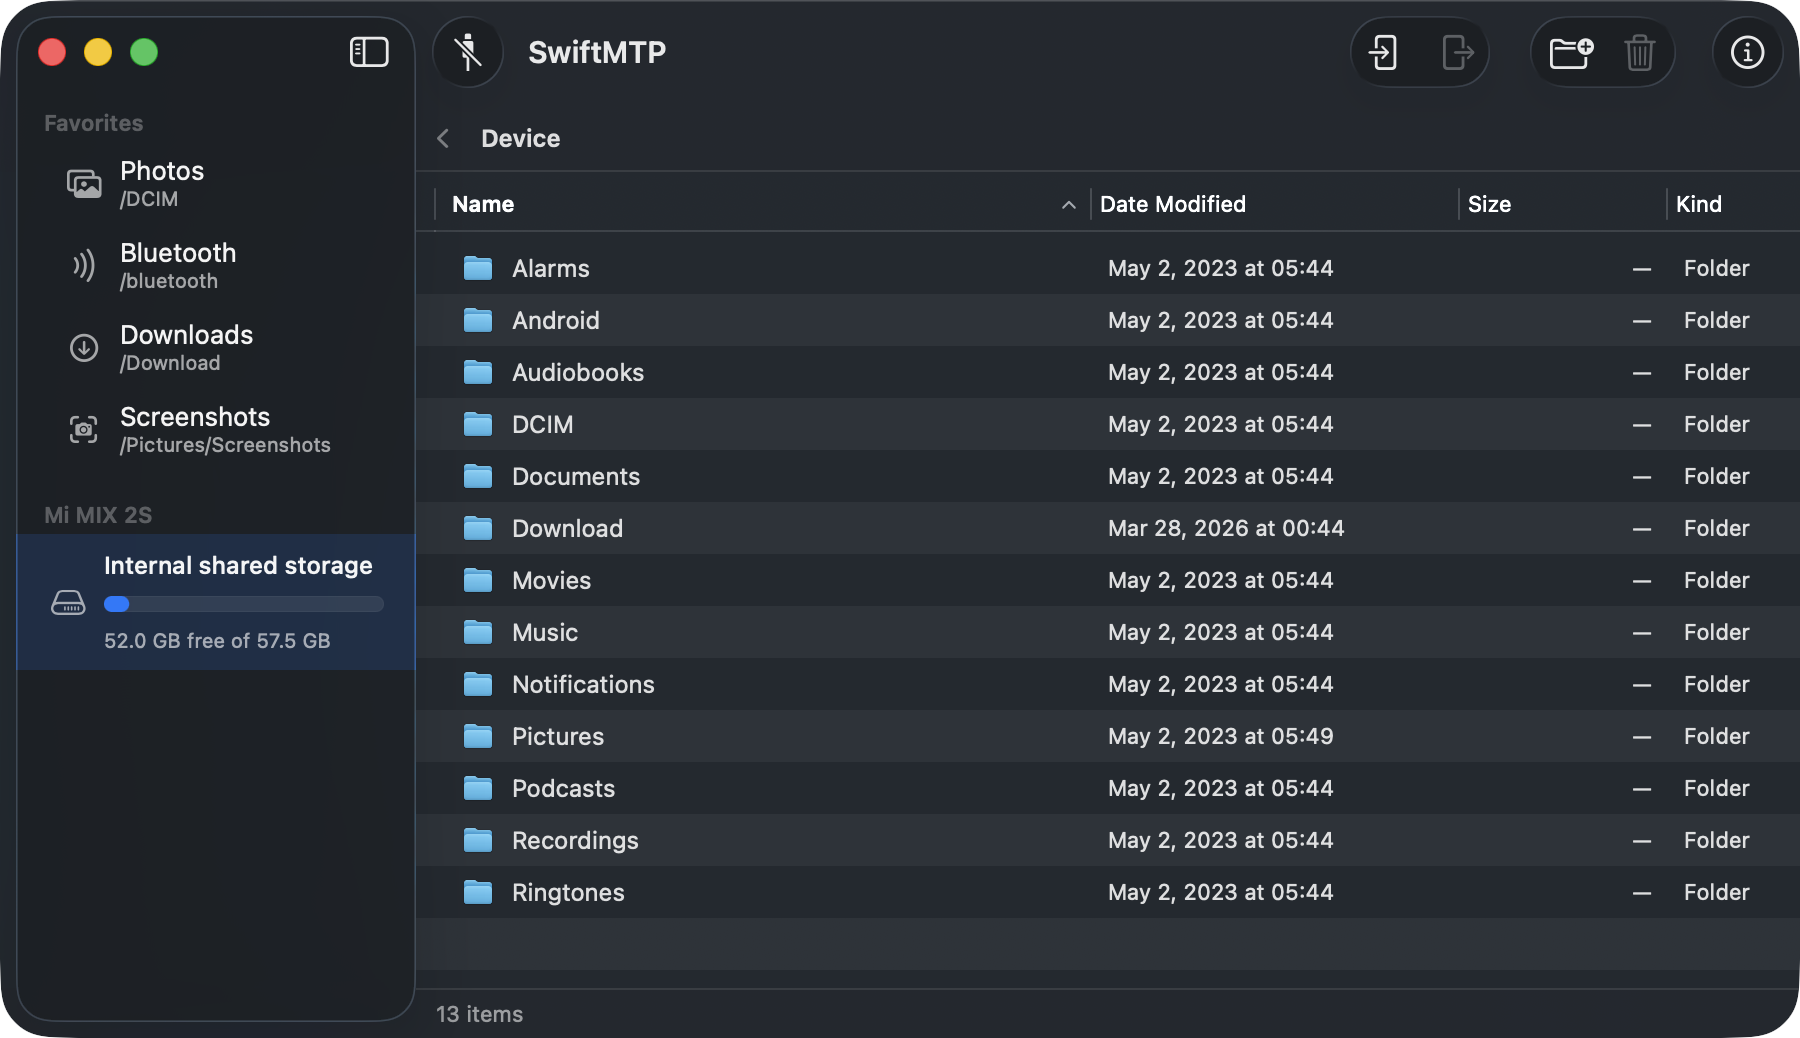
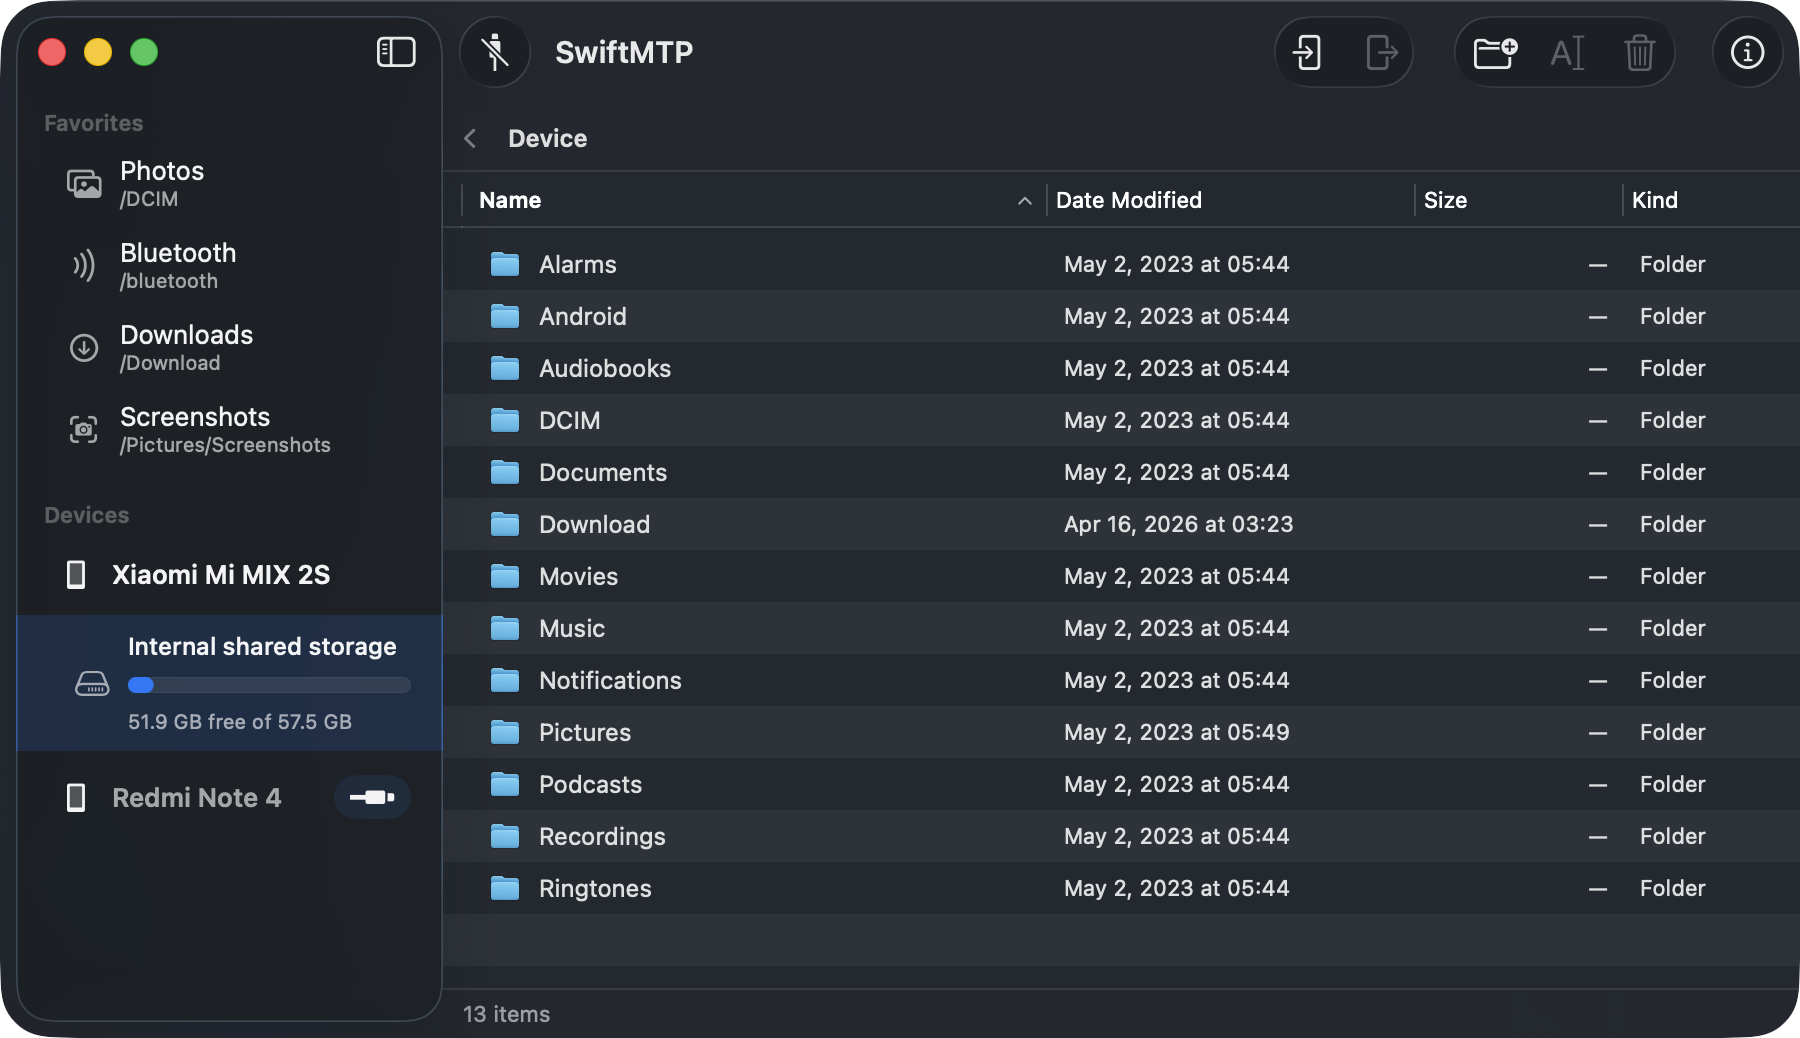
Update v1.1

diff --git a/index.html b/index.html
@@ -188,7 +188,8 @@
             <tr>
               <th></th>
               <th class="col-highlight">SwiftMTP</th>
-              <th>OpenMTP</th>
+              <th>Open Source A</th>
+              <th>Open Source B</th>
               <th>App Store A</th>
               <th>App Store B</th>
               <th>App Store C</th>
@@ -199,6 +200,7 @@
               <td class="row-label">Architecture</td>
               <td class="col-highlight"><span class="badge-good">Universal</span></td>
               <td><span class="badge-warn">Separate pkg</span></td>
+              <td><span class="badge-bad">Apple Silicon</span></td>
               <td><span class="badge-good">Universal</span></td>
               <td><span class="badge-bad">Apple Silicon</span></td>
               <td><span class="badge-good">Universal</span></td>
@@ -207,6 +209,7 @@
               <td class="row-label">macOS Support</td>
               <td class="col-highlight">12.0+</td>
               <td>11.0+</td>
+              <td>13.0+</td>
               <td>10.15+</td>
               <td>12.0+</td>
               <td><span class="badge-bad">14.6+</span></td>
@@ -215,6 +218,7 @@
               <td class="row-label">App Size</td>
               <td class="col-highlight"><span class="badge-good">&lt; 20 MB</span></td>
               <td><span class="badge-bad">~360 MB</span></td>
+              <td><span class="badge-good">~20 MB</span></td>
               <td><span class="badge-good">&lt; 20 MB</span></td>
               <td><span class="badge-good">&lt; 20 MB</span></td>
               <td><span class="badge-good">&lt; 20 MB</span></td>
@@ -223,6 +227,7 @@
               <td class="row-label">Transfer Speed</td>
               <td class="col-highlight"><span class="badge-good">Fast</span></td>
               <td><span class="badge-good">Fast</span></td>
+              <td>Average</td>
               <td><span class="badge-bad">Slow</span></td>
               <td>Average</td>
               <td><span class="badge-bad">Not working</span></td>
@@ -231,6 +236,7 @@
               <td class="row-label">User Interface</td>
               <td class="col-highlight"><span class="badge-good">Native Swift</span></td>
               <td><span class="badge-bad">Web-based</span></td>
+              <td><span class="badge-good">Native Swift</span></td>
               <td>Near-Native</td>
               <td>Near-Native</td>
               <td>Near-Native</td>
@@ -240,6 +246,7 @@
               <td class="col-highlight"><span class="badge-good">Multiple languages</span></td>
               <td><span class="badge-warn">English Only</span></td>
               <td><span class="badge-warn">English Only</span></td>
+              <td><span class="badge-warn">English Only</span></td>
               <td><span class="badge-bad">Latin alphabets Only</span></td>
               <td><span class="badge-warn">English Only</span></td>
             </tr>
@@ -247,9 +254,28 @@
               <td class="row-label">Drag &amp; Drop</td>
               <td class="col-highlight"><span class="badge-good">✓ Supported</span></td>
               <td><span class="badge-good">✓ Supported</span></td>
+              <td>-</td>
               <td>—</td>
               <td><span class="badge-bad">✗ None</span></td>
               <td>—</td>
+            </tr>
+            <tr>
+              <td class="row-label">ADB Debugging</td>
+              <td class="col-highlight"><span class="badge-good">No</span></td>
+              <td><span class="badge-good">No</span></td>
+              <td><span class="badge-bad">Required</span></td>
+              <td><span class="badge-good">No</span></td>
+              <td><span class="badge-good">No</span></td>
+              <td>-</td>
+            </tr>
+            <tr>
+              <td class="row-label">Multi-device</td>
+              <td class="col-highlight"><span class="badge-good">✓ Supported</span></td>
+              <td><span class="badge-bad">✗ No</span></td>
+              <td>-</td>
+              <td>-</td>
+              <td>-</td>
+              <td>-</td>
             </tr>
           </tbody>
         </table>
